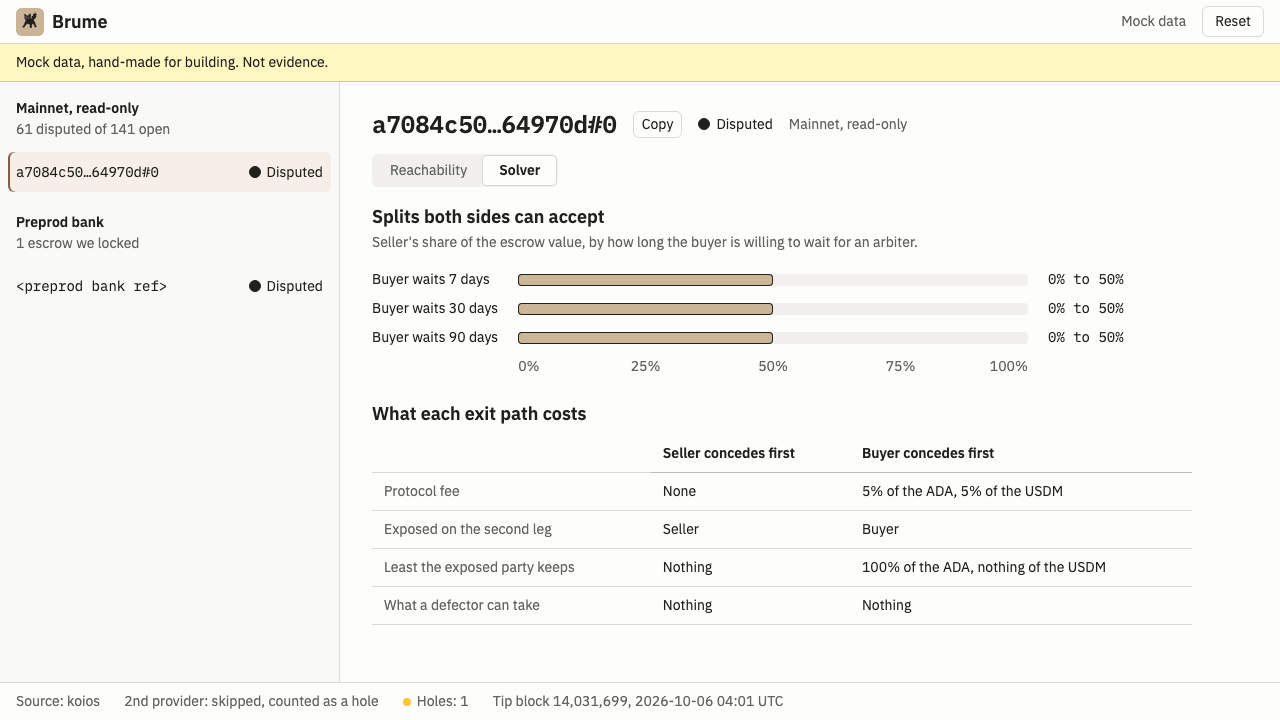
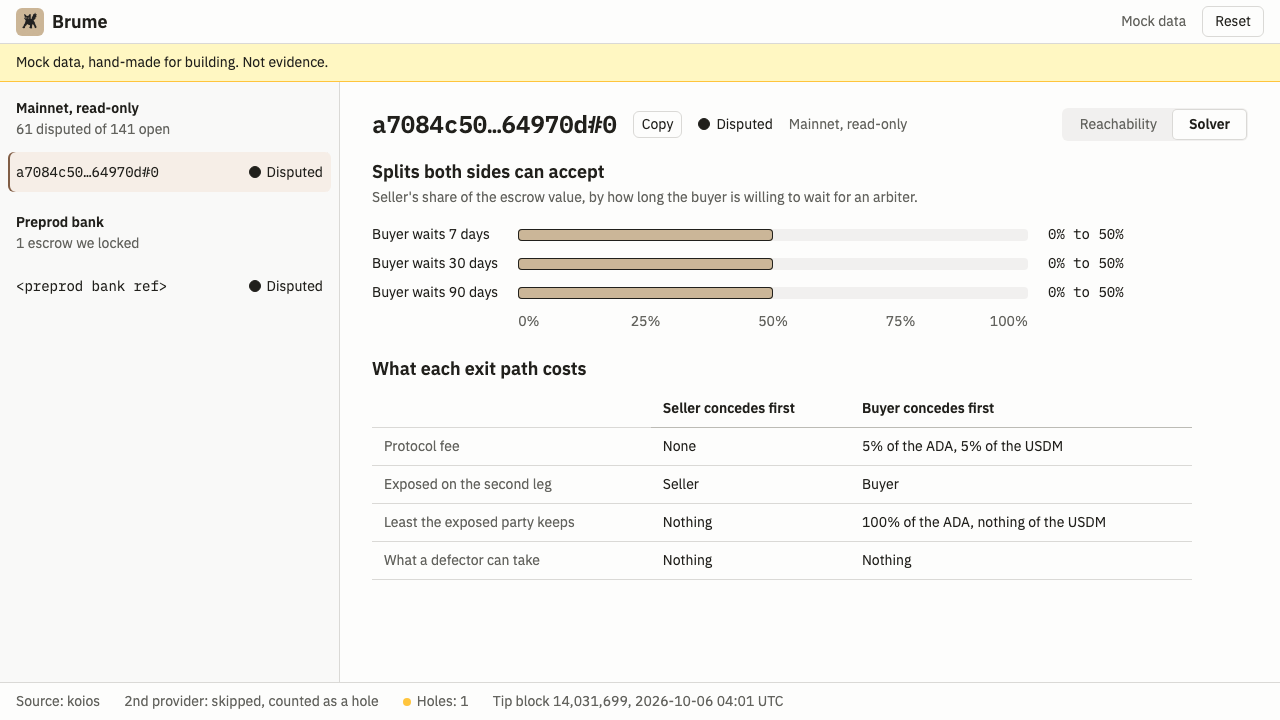
feat(ui): in-page navigation, keyboard list control and motion polish

diff --git a/docs/app.js b/docs/app.js
@@ -87,7 +87,7 @@ function urlFor(ref, view) {
 
 // JobResult.uiUrl puts the raw ref in the query, so its "#<index>" lands in location.hash.
 function escrowFromUrl() {
-  const e = params.get('escrow')
+  const e = new URLSearchParams(location.search).get('escrow')
   return e && !e.includes('#') && /^#\d+$/.test(location.hash) ? e + location.hash : e
 }
 
@@ -166,6 +166,7 @@ function placePop(anchor) {
   const r = anchor.getBoundingClientRect()
   const below = r.bottom + 8 + pop.offsetHeight <= innerHeight - 8
   pop.style.top = `${Math.max(8, below ? r.bottom + 8 : r.top - 8 - pop.offsetHeight)}px`
+  pop.style.transformOrigin = below ? 'top left' : 'bottom left' // grows out of the cell it describes
   pop.style.left = `${Math.max(8, Math.min(r.left, innerWidth - pop.offsetWidth - 8))}px`
 }
 
@@ -348,7 +349,7 @@ async function settleView(row) {
     panel.replaceChildren(...[renderSteps(steps), renderLog(log)].filter(Boolean))
     requestAnimationFrame(() => panel.querySelector('.step.current, .step.error')?.scrollIntoView({ block: 'nearest' }))
     const waitingOnSignature = mine && (!mine.signedBy.includes('buyer') || !mine.signedBy.includes('seller'))
-    if (live && waitingOnSignature) setTimeout(rerun, POLL_MS) // picks up the signed file dropped by pnpm sign
+    if (live && waitingOnSignature) setTimeout(() => panel.isConnected && rerun(), POLL_MS) // picks up the signed file dropped by pnpm sign; stops once the view is left
   }
   await rerun()
   return panel
@@ -412,26 +413,36 @@ function blank(title, text, back = true) {
   return h('div', { class: 'blank' }, h('h2', {}, title), h('p', {}, text), back && h('a', { class: 'btn', href: urlFor() }, 'Back to the list'))
 }
 
-async function main() {
-  renderSource()
-  $('reset').addEventListener('click', () => { location.href = urlFor() })
-  $('detail').replaceChildren(renderGrid(null))
+let base = null // [census, bank], loaded once per page
+let renderSeq = 0
+
+// Reads escrow and view from the URL. animate: the grid's one orchestrated reveal, never on keyboard or history moves.
+async function render({ animate = true, focusList = false } = {}) {
+  const seq = ++renderSeq
+  if ($('pop').matches(':popover-open')) $('pop').hidePopover()
   try {
-    const [census, bank] = await Promise.all([load('census'), loadBank()])
+    base ??= await Promise.all([load('census'), loadBank()])
+    const [census, bank] = base
     const rows = [...census.rows.map(r => ({ ...r, network: 'mainnet' })), ...bank.map(r => ({ ...r, network: 'preprod' }))]
     const ref = escrowFromUrl() ?? census.rows.find(r => r.state === 'Disputed')?.ref
     renderList(census, bank, ref)
+    if (focusList) document.querySelector('.row[aria-current]')?.focus()
     renderFoot(census)
     const row = rows.find(r => r.ref === ref)
     if (!row) {
       $('detail').replaceChildren(blank('No escrow at this reference', 'It may have been spent, or it is not in this data set.'))
       return
     }
+    document.title = `Brume, ${short(row.ref)}`
     const ids = viewsFor(row).map(([id]) => id)
-    const view = ids.includes(params.get('view')) ? params.get('view') : ids[0]
+    const asked = new URLSearchParams(location.search).get('view')
+    const view = ids.includes(asked) ? asked : ids[0]
     const body = await { settle: settleView, reach: reachView, solver: solverView }[view](row)
+    if (seq !== renderSeq) return // a newer navigation already rendered
+    $('detail').classList.toggle('animate', animate)
     $('detail').replaceChildren(renderHead(row, view), ...[body].flat())
   } catch (err) {
+    if (seq !== renderSeq) return
     const hint = {
       live: 'Start the agent with pnpm agent, or open this page with ?source=snapshot.',
       snapshot: 'Regenerate the data with pnpm site:data.',
@@ -441,4 +452,39 @@ async function main() {
   }
 }
 
-main()
+function go(href, opts) {
+  history.pushState(null, '', href)
+  render(opts)
+}
+
+// In-page links (?escrow=…&view=…) navigate without a reload. e.detail is 0 when Enter activated the link.
+document.addEventListener('click', e => {
+  const a = e.target.closest('a[href^="?"]')
+  if (!a || e.button !== 0 || e.metaKey || e.ctrlKey || e.shiftKey || e.altKey) return
+  e.preventDefault()
+  const keyboard = e.detail === 0
+  go(a.getAttribute('href'), { animate: !keyboard, focusList: keyboard && a.classList.contains('row') })
+})
+addEventListener('popstate', () => render({ animate: false }))
+
+// j / k move focus through the escrow list, Enter opens (native link). Arrows move between view segments.
+addEventListener('keydown', e => {
+  if (e.metaKey || e.ctrlKey || e.altKey || e.target.closest('input, textarea, select')) return
+  if (e.key === 'j' || e.key === 'k') {
+    const rows = [...document.querySelectorAll('.row')]
+    const from = rows.indexOf(document.activeElement)
+    const at = from >= 0 ? from : rows.findIndex(r => r.hasAttribute('aria-current'))
+    rows[Math.max(0, Math.min(rows.length - 1, at + (e.key === 'j' ? 1 : -1)))]?.focus()
+    e.preventDefault()
+  } else if ((e.key === 'ArrowLeft' || e.key === 'ArrowRight') && e.target.closest('.seg')) {
+    const links = [...e.target.closest('.seg').querySelectorAll('a')]
+    links[(links.indexOf(e.target) + (e.key === 'ArrowRight' ? 1 : links.length - 1)) % links.length].focus()
+    e.preventDefault()
+  }
+})
+
+renderSource()
+document.querySelector('.brand').setAttribute('href', urlFor())
+$('reset').addEventListener('click', () => go(urlFor(), { animate: false }))
+$('detail').replaceChildren(renderGrid(null))
+render()

diff --git a/docs/app.css b/docs/app.css
@@ -23,7 +23,7 @@
 
   --sans: "IBM Plex Sans", ui-sans-serif, system-ui, sans-serif;
   --mono: "IBM Plex Mono", ui-monospace, "SF Mono", Menlo, monospace;
-  --ease: cubic-bezier(.2, .8, .2, 1);
+  --ease: cubic-bezier(0.23, 1, 0.32, 1);
   color-scheme: light;
 }
 
@@ -77,7 +77,6 @@ body {
   color: var(--ink);
   cursor: pointer;
 }
-.btn:hover { background: var(--panel-2); }
 
 .band {
   grid-area: band;
@@ -110,7 +109,6 @@ body {
   text-decoration: none;
   font-size: 14px;
 }
-.row:hover { background: var(--panel-2); }
 .row[aria-current] { background: var(--accent-soft); box-shadow: inset 2px 0 var(--accent); }
 
 /* State chip: icon + label (Primer StateLabel pattern), glyph shape carries the state */
@@ -124,7 +122,7 @@ body {
 
 /* Detail */
 .detail { grid-area: detail; overflow-y: auto; padding: 24px 32px 32px; }
-.head { display: grid; gap: 12px; margin-bottom: 16px; }
+.head { display: flex; align-items: center; justify-content: space-between; gap: 12px 24px; flex-wrap: wrap; margin-bottom: 16px; }
 .title { display: flex; align-items: center; gap: 16px; flex-wrap: wrap; }
 .title h1 { margin: 0; font-size: 24px; font-weight: 600; }
 .copy { font-size: 14px; padding: 2px 8px; }
@@ -160,16 +158,14 @@ body {
   font-size: 14px;
   text-align: left;
   cursor: pointer;
-  animation: resolve 120ms var(--ease) both;
-  animation-delay: calc(var(--i) * 14ms);
 }
 .cell .glyph { border-radius: 2px; border-color: var(--ink-2); }
-.cell:hover { border-color: var(--line-strong); }
 .cell.can { background: var(--brume); border-color: var(--ink); color: var(--ink); font-weight: 600; }
 .cell.can .glyph { background: var(--ink); border-color: var(--ink); }
 .cell.skel { background: var(--panel-2); border-color: var(--panel-2); animation: none; cursor: default; }
 @keyframes resolve { from { opacity: 0; transform: translateY(2px); } }
-@media (prefers-reduced-motion: reduce) { .cell { animation: none; } }
+.animate .cell { animation: resolve 120ms var(--ease) both; animation-delay: calc(var(--i) * 14ms); }
+@media (prefers-reduced-motion: reduce) { .animate .cell { animation: none; } }
 
 /* Cell detail popover */
 .pop {
@@ -191,7 +187,6 @@ body {
 .pop ul { margin: 0; padding-left: 18px; }
 
 .btn.primary { background: var(--accent); border-color: var(--accent); color: #fefdfc; font-weight: 600; }
-.btn.primary:hover { background: #6f503b; }
 .btn:disabled { opacity: .5; cursor: not-allowed; }
 .hint { font-size: 14px; color: var(--ink-2); }
 .error { margin: 8px 0 0; color: var(--ink); font-size: 14px; }
@@ -287,3 +282,23 @@ body {
   .list { border-right: 0; border-bottom: 1px solid var(--line); }
   .detail { padding: 16px; overflow-x: auto; }
 }
+
+/* Press feedback and hover, Emil Kowalski's rules: transform only, ease-out, hover only on fine pointers */
+.btn, .cell { transition: transform 160ms var(--ease); }
+.btn:active:not(:disabled), .cell:active { transform: scale(0.97); }
+@media (hover: hover) and (pointer: fine) {
+  .btn:hover { background: var(--panel-2); }
+  .btn.primary:hover { background: #6f503b; }
+  .row:hover { background: var(--panel-2); }
+  .cell:hover { border-color: var(--line-strong); }
+  .cell.can:hover { border-color: var(--ink); }
+}
+
+/* Popover grows out of its cell (transform-origin set in JS); exits instantly */
+.pop:popover-open {
+  opacity: 1;
+  transform: none;
+  transition: opacity 150ms var(--ease), transform 150ms var(--ease);
+  @starting-style { opacity: 0; transform: scale(0.97); }
+}
+@media (prefers-reduced-motion: reduce) { .pop:popover-open { transition: opacity 150ms ease; } }

diff --git a/docs/index.html b/docs/index.html
@@ -4,13 +4,13 @@
 <meta charset="utf-8">
 <meta name="viewport" content="width=device-width, initial-scale=1">
 <title>Brume</title>
-<link rel="icon" href="brand/brume-cat.jpg">
+<link rel="icon" href="brand/brume-cat-96.png">
 <link rel="stylesheet" href="app.css">
 <script type="module" src="app.js"></script>
 </head>
 <body>
 <header class="bar">
-  <a class="brand" href="./"><img src="brand/brume-cat.jpg" alt="" width="28" height="28"><span>Brume</span></a>
+  <a class="brand" href="./"><img src="brand/brume-cat-96.png" alt="" width="28" height="28"><span>Brume</span></a>
   <span class="badge" id="source"></span>
   <button class="btn" id="reset" type="button">Reset</button>
 </header>

diff --git a/docs/DESIGN.md b/docs/DESIGN.md
@@ -68,7 +68,9 @@ Rules: text always wears `--ink` / `--ink-2`, never a status color. A state is n
 
 **Space and shape.** 4 px base: 4, 8, 12, 16, 24, 32, 48. Radius 6 px controls, 4 px cells, 0 page frame. One shadow, popovers only: `0 4px 16px rgb(33 32 28 / .12)`.
 
-**Motion.** One orchestrated moment: when an escrow opens, its 21 cells resolve in reading order, 18 ms stagger, 300 ms total, `cubic-bezier(.2,.8,.2,1)`. User-driven changes (a step completing, a popover opening) 120 ms. `prefers-reduced-motion`: no stagger.
+**Motion.** One orchestrated moment: when an escrow is opened with the mouse or on first load, its 21 cells resolve in reading order, 14 ms stagger, about 400 ms total, `cubic-bezier(0.23, 1, 0.32, 1)`. Never on keyboard navigation or back/forward. Popover: opacity + `scale(0.97)` to 1 in 150 ms from the cell it describes, instant exit. Buttons and cells: `scale(0.97)` on press, 160 ms. Hover styles only on fine pointers. `prefers-reduced-motion`: no stagger, popover fades only.
+
+**Navigation.** In-page, no reload: escrow and view live in the URL (`?escrow=…&view=…`), back and forward work. `j` / `k` move through the escrow list, `Enter` opens; arrow keys move between view segments.
 
 ## 5. Layout
 
